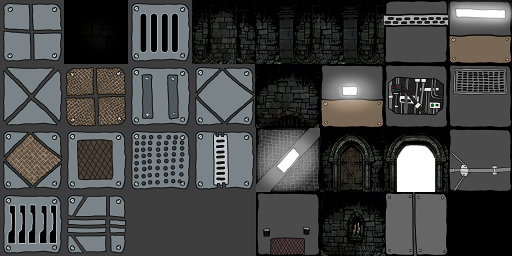
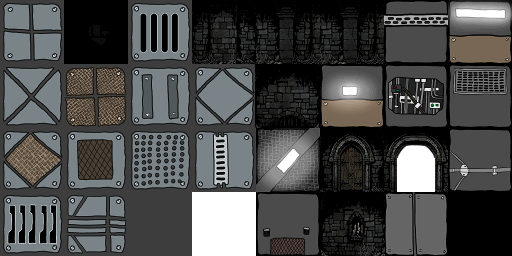
moving backgrounds

Changed region(s): [[0.375, 0.75, 0.5, 1.0]]

diff --git a/src/public/lib/game/entities/player.js b/src/public/lib/game/entities/player.js
@@ -8,11 +8,14 @@ ig.module(
         'plugins.twopointfive.entity'
     )
     .defines(function(){
+        var _pi2 =Math.PI/2;
+        var _2pi =Math.PI*2;
         EntityPlayer = ig.Entity.extend({
             type: ig.Entity.TYPE.A,
             collides: ig.Entity.COLLIDES.PASSIVE,
 
             size: {x: 32, y: 32},
+            halfSize: 16,
             angle: 0,
             turnSpeed: (120).toRad(),
             moveSpeed: 192,
@@ -45,14 +48,19 @@ ig.module(
                 for(var i=this.camPos.length; i < 6; i++){
                     this.camPos.push({x:this.pos.x,y:this.pos.y,a:this.pos.angle})
                 }
-                ig.system.camera.position[0] = this.pos.x + this.size.x/2;
-                ig.system.camera.position[2] = this.pos.y + this.size.y/2;
+                ig.system.camera.position[0] = this.pos.x + this.halfSize;
+                ig.system.camera.position[2] = this.pos.y + this.halfSize;
             },
 
             update: function() {
                 var dx=this.inputState.dx;
                 var dy=this.inputState.dy;
                 this.angle += this.turnSpeed * this.inputState.da * ig.system.tick;
+                while (this.angle > Math.PI)
+                    this.angle-=_2pi;
+                while (this.angle < -Math.PI)
+                    this.angle+=_2pi;
+
 
 
                 // Normalize movement vector
@@ -61,8 +69,8 @@ ig.module(
                     dy *= Math.SQRT1_2;
                 }
 
-                this.vel.x = -Math.sin(this.angle) * dy * this.moveSpeed - Math.sin(this.angle + Math.PI/2) * dx * this.moveSpeed;
-                this.vel.y = -Math.cos(this.angle) * dy * this.moveSpeed - Math.cos(this.angle + Math.PI/2) * dx * this.moveSpeed;
+                this.vel.x = -Math.sin(this.angle) * dy * this.moveSpeed - Math.sin(this.angle + _pi2) * dx * this.moveSpeed;
+                this.vel.y = -Math.cos(this.angle) * dy * this.moveSpeed - Math.cos(this.angle + _pi2) * dx * this.moveSpeed;
 
                 // Calculate new position based on velocity; update sector and light etc...
                 this.parent();
@@ -74,10 +82,10 @@ ig.module(
                 this.camPosCur.a = this.camPosHead.a;
                 // Update camera position and view angle
                 ig.system.camera.setRotation(0,0, this.camPosCur.a );
-                ig.system.camera.setPosition( this.camPosCur.x + this.size.x/2, this.camPosCur.y + this.size.y/2, -10 );
+                ig.system.camera.setPosition( this.camPosCur.x + this.halfSize, this.camPosCur.y + this.halfSize, -10 );
                 //emit light
                 if (this.emittedLight && ig.game.lightMap){
-                    ig.game.lightMap.setLightSource(this.camPosCur.x+ this.size.x/2,this.camPosCur.y+ this.size.y/2,this.emittedLight);
+                    ig.game.lightMap.setLightSource(this.camPosCur.x+ this.halfSize,this.camPosCur.y+ this.halfSize,this.emittedLight);
                 }
 
                 this.camPosHead.x = this.pos.x;

diff --git a/src/public/lib/game/levels/base1.js b/src/public/lib/game/levels/base1.js
@@ -62,7 +62,7 @@ LevelBase1=/*JSON[*/{
 			"width": 32,
 			"height": 32,
 			"linkWithCollision": false,
-			"visible": 0,
+			"visible": 1,
 			"tilesetName": "",
 			"repeat": false,
 			"preRender": false,
@@ -156,7 +156,7 @@ LevelBase1=/*JSON[*/{
 			"width": 32,
 			"height": 32,
 			"linkWithCollision": false,
-			"visible": 0,
+			"visible": 1,
 			"tilesetName": "media/tiles/basic-tiles-64.png",
 			"repeat": false,
 			"preRender": false,
@@ -167,12 +167,12 @@ LevelBase1=/*JSON[*/{
 				[0,0,0,0,0,0,0,0,0,0,0,0,0,0,0,0,0,0,0,0,0,0,0,0,0,0,0,0,0,0,0,0],
 				[0,0,0,0,0,0,0,0,0,0,0,0,0,0,0,0,0,0,0,0,0,0,0,0,0,0,0,0,0,0,0,0],
 				[0,0,0,0,0,2,2,0,2,2,0,0,0,0,0,0,0,0,0,0,0,0,0,0,0,0,0,0,0,0,0,0],
-				[0,0,0,2,2,2,2,2,2,2,2,2,0,0,0,0,0,0,0,0,0,0,0,0,0,0,0,0,0,0,0,0],
-				[0,0,0,2,2,2,2,2,2,2,2,2,0,0,0,0,0,0,0,0,0,0,0,0,0,0,0,0,0,0,0,0],
-				[0,0,2,2,2,0,0,2,0,0,2,2,2,2,2,2,2,2,0,0,0,0,0,0,0,0,0,0,0,0,0,0],
-				[0,0,2,2,2,0,0,2,0,0,2,2,2,2,2,2,2,2,0,0,0,0,0,0,0,0,0,0,0,0,0,0],
-				[0,0,0,2,2,2,2,2,2,2,2,2,0,0,0,2,2,0,0,0,0,0,0,0,0,0,0,0,0,0,0,0],
-				[0,0,0,2,2,2,2,2,2,2,2,2,0,0,0,2,2,0,0,0,0,0,0,0,0,0,0,0,0,0,0,0],
+				[0,0,0,2,2,2,2,28,28,28,28,28,0,0,0,0,0,0,0,0,0,0,0,0,0,0,0,0,0,0,0,0],
+				[0,0,0,2,2,2,2,28,28,28,28,28,0,0,0,0,0,0,0,0,0,0,0,0,0,0,0,0,0,0,0,0],
+				[0,0,2,2,2,0,0,28,0,28,28,28,28,28,28,28,28,28,0,0,0,0,0,0,0,0,0,0,0,0,0,0],
+				[0,0,2,2,2,0,0,28,0,0,28,28,28,28,28,28,28,28,0,0,0,0,0,0,0,0,0,0,0,0,0,0],
+				[0,0,0,2,2,2,2,28,28,28,28,28,0,0,0,2,2,0,0,0,0,0,0,0,0,0,0,0,0,0,0,0],
+				[0,0,0,2,2,2,2,28,28,28,28,28,0,0,0,2,2,0,0,0,0,0,0,0,0,0,0,0,0,0,0,0],
 				[0,0,0,0,0,0,9,9,9,0,0,0,0,0,0,2,2,0,0,0,0,0,0,0,0,0,0,0,0,0,0,0],
 				[0,0,0,0,0,0,2,2,2,0,0,0,0,0,0,2,2,0,0,0,0,0,0,0,0,0,0,0,0,0,0,0],
 				[0,0,0,0,0,0,2,2,2,0,0,0,0,0,0,1,1,0,0,0,0,0,0,0,0,0,0,0,0,0,0,0],
@@ -203,7 +203,7 @@ LevelBase1=/*JSON[*/{
 			"width": 32,
 			"height": 32,
 			"linkWithCollision": false,
-			"visible": 1,
+			"visible": 0,
 			"tilesetName": "media/tiles/lights-64.png",
 			"repeat": false,
 			"preRender": false,

diff --git a/src/server/game/entities/player.js b/src/server/game/entities/player.js
@@ -8,6 +8,8 @@ ig.module(
         'plugins.network'
     )
     .defines(function(){
+        var _pi2 =Math.PI/2;
+        var _2pi =Math.PI*2;
         EntityPlayer = ig.Entity.extend({
             type: ig.Entity.TYPE.A,
             collides: ig.Entity.COLLIDES.PASSIVE,
@@ -33,6 +35,10 @@ ig.module(
                 var dx=this.inputState.dx;
                 var dy=this.inputState.dy;
                 this.angle += this.turnSpeed * this.inputState.da * ig.system.tick;
+                while (this.angle > Math.PI)
+                    this.angle-=_2pi;
+                while (this.angle < -Math.PI)
+                    this.angle+=_2pi;
 
                 // Normalize movement vector
                 if( Math.abs(dx) + Math.abs(dy) > 1 ) {
@@ -40,8 +46,8 @@ ig.module(
                     dy *= Math.SQRT1_2;
                 }
 
-                this.vel.x = -Math.sin(this.angle) * dy * this.moveSpeed - Math.sin(this.angle+Math.PI/2) * dx * this.moveSpeed;
-                this.vel.y = -Math.cos(this.angle) * dy * this.moveSpeed - Math.cos(this.angle+Math.PI/2) * dx * this.moveSpeed;
+                this.vel.x = -Math.sin(this.angle) * dy * this.moveSpeed - Math.sin(this.angle+_pi2) * dx * this.moveSpeed;
+                this.vel.y = -Math.cos(this.angle) * dy * this.moveSpeed - Math.cos(this.angle+_pi2) * dx * this.moveSpeed;
 
                 // Calculate new position based on velocity; update sector and light etc...
                 this.parent();

diff --git a/src/public/lib/plugins/twopointfive/game.js b/src/public/lib/plugins/twopointfive/game.js
@@ -25,7 +25,6 @@ tpf.Game = ig.Game.extend({
 	culledSectors: null,
 	sectorSize: 4,
 	clearColor: null,
-
 	clearLevel: function() {
 		for( var i = 0; i < this.entities.length; i++ ) {
 			if( this.entities[i] instanceof tpf.Entity ) {
@@ -40,7 +39,8 @@ tpf.Game = ig.Game.extend({
 		this.backgroundMaps = [];
 
 		this.lightMap = null;
-	},
+		this.backImage = null;
+    },
 
 
 	loadLevel: function( data ) {
@@ -108,6 +108,20 @@ tpf.Game = ig.Game.extend({
 			ig.system.renderer.gl.clearColor(c[0],c[1],c[2],1);
 		}
 		ig.system.renderer.clear(!!this.clearColor, true);
+
+		if (this.backImageTile) {
+            var offset = -this.skyOffset * ig.system.camera.rotation[1];
+            if (offset < 0) {
+                this.backImageTile.setPosition(-this.backImageTile.tileWidth - offset, 0);
+                this.backImageTile.draw();
+            }
+            this.backImageTile.setPosition(-offset, 0);
+            this.backImageTile.draw();
+            if (offset + ig.system.width > this.backImageTile.tileWidth) {
+                this.backImageTile.setPosition(offset + ig.system.width - this.backImageTile.tileWidth, 0);
+                this.backImageTile.draw();
+            }
+        }
 		
 		this.drawWorld();
 

diff --git a/src/public/lib/game/main.js b/src/public/lib/game/main.js
@@ -36,6 +36,8 @@ ig.module(
             touchButtons: null,
             touchFieldMove: null,
             touchFieldTurn: null,
+            backImage: new ig.Image( 'media/backImagets.png' ),
+            skyOffset: null,
 
             gravity: 4,
             prevInput: {dx:0,dy:0,da:0},
@@ -63,6 +65,11 @@ ig.module(
 
                 this.pointer = new Pointer(width,height);
                 this.setTitle(MenuLoader, 'Connecting...');
+
+                // Create the tile for the sky image
+                this.backImageTile = new tpf.HudTile(this.backImage, 0, this.backImage.width, this.backImage.height);
+                this.backImageTile.setPosition(0, 0,0);
+                this.skyOffset = this.backImageTile.tileWidth / (Math.PI * 2);
             },
 
             setTitle: function(menuClass,text,action) {

diff --git a/src/public/lib/plugins/network.js b/src/public/lib/plugins/network.js
@@ -85,6 +85,10 @@ ig.module(
                 var xd = input.x - pl.camPosCur.x;
                 var yd = input.y - pl.camPosCur.y;
                 var ad = input.a - pl.camPosCur.a;
+                while (ad > Math.PI)
+                    ad-=Math.PI*2;
+                while (this.angle < -Math.PI)
+                    ad+=Math.PI*2;
                 for(var i = 0; i < pl.camPos.length; i++){
                     var idxHead = (pl.camPosIdx+i)%pl.camPos.length;
                     var cp = pl.camPos[idxHead];
